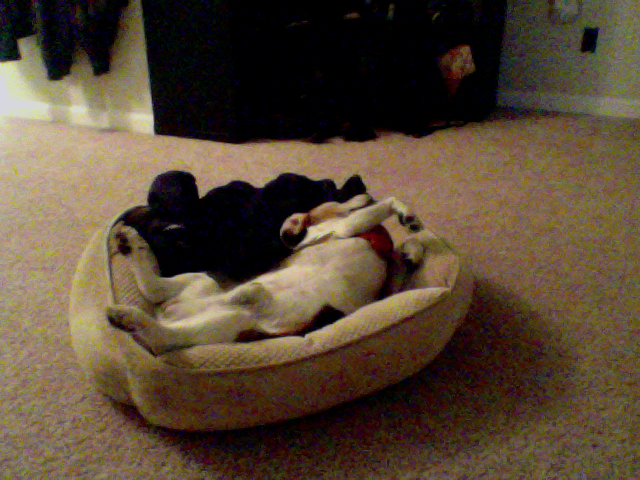
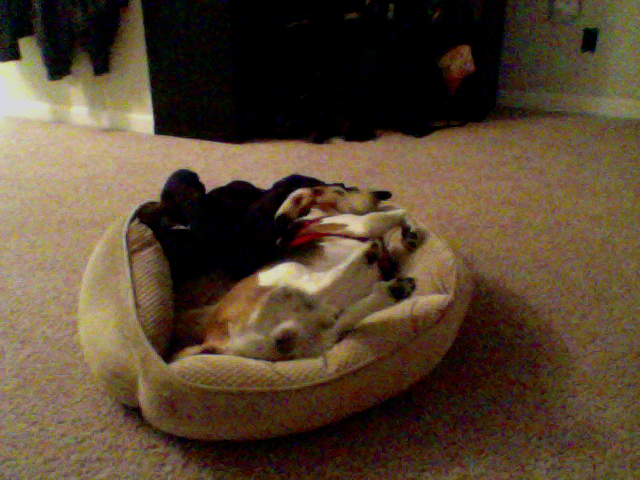
update at Month05Day07Time20:04

diff --git a/index.html b/index.html
@@ -40,7 +40,7 @@
       <div class="row">
         <div class="col-md-4">
 	<p>This picture was updated at Month05Day07Time20:04</p>
-		<img src="4_pic.png" />
+		<img src="7_pic.png" />
         </div>
       </div>
 
